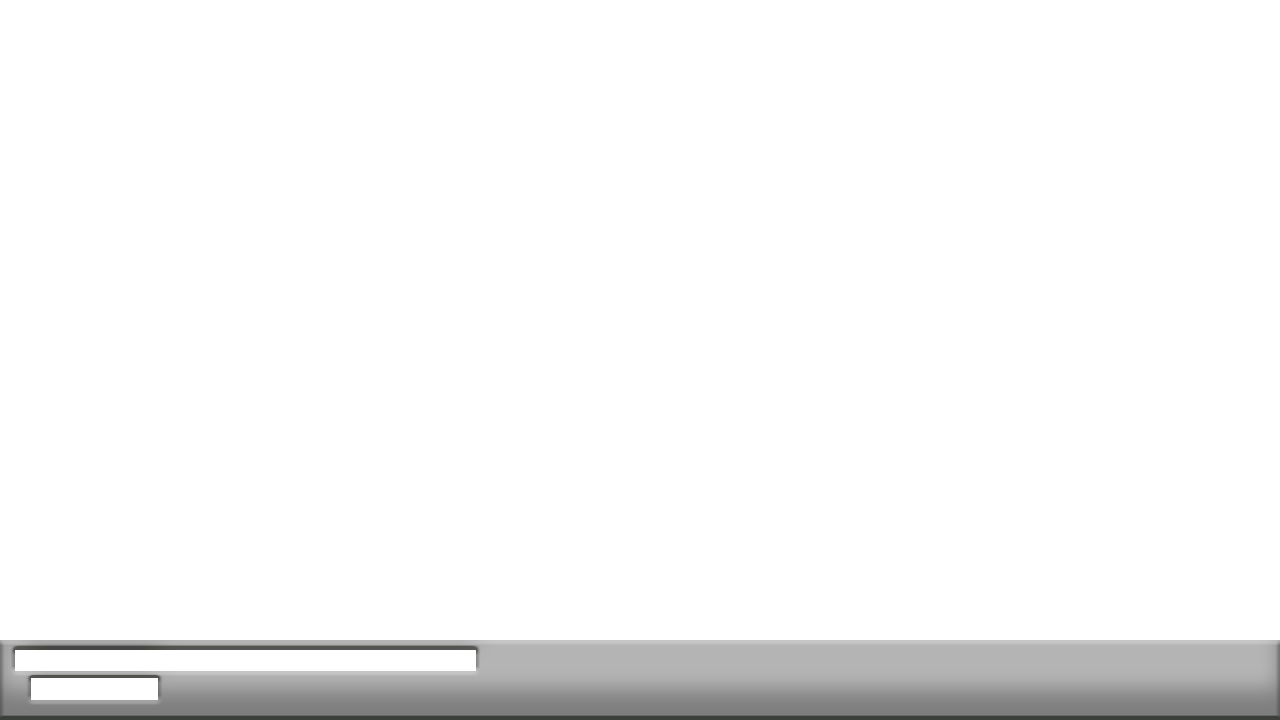
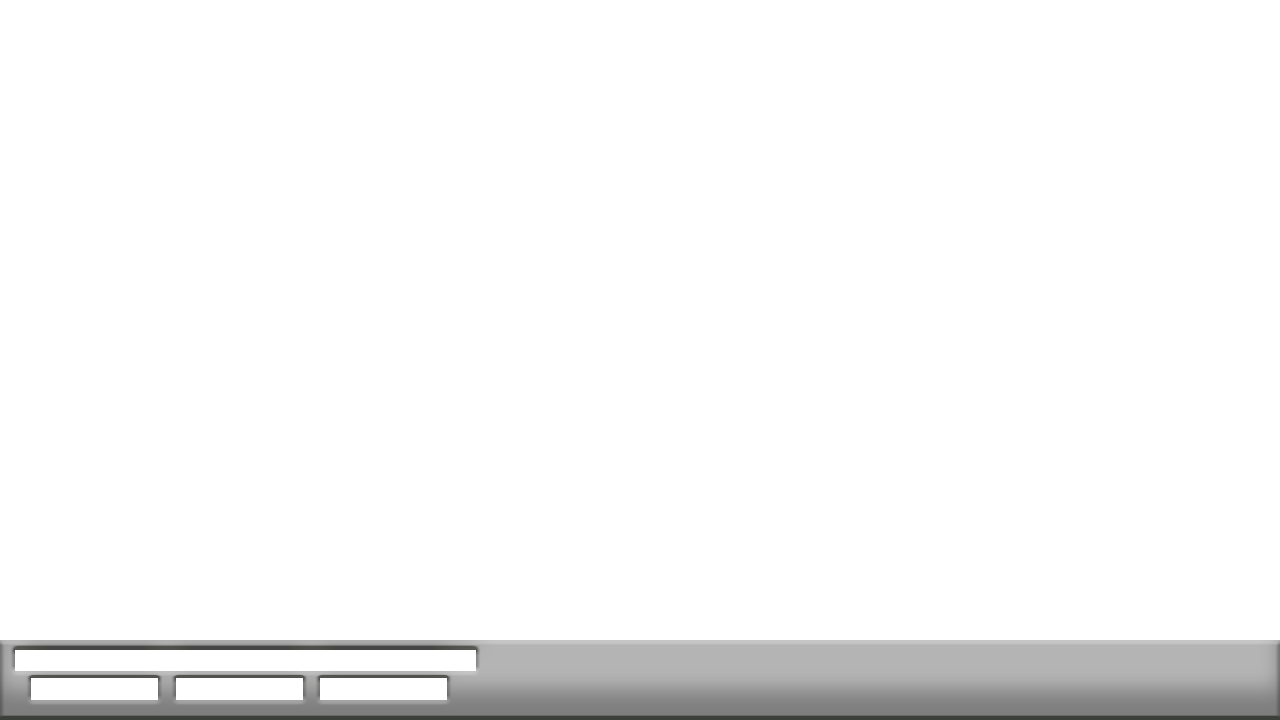
update da interface. avalia e me diz

Changed region(s): [[0.125, 0.9167, 0.375, 0.9778]]

diff --git a/src/game/scenes/Ui.java b/src/game/scenes/Ui.java
@@ -41,11 +41,10 @@ public class Ui {
 
 	public Ui(game.TrueHero hero) {
 		this.hero = hero;
-		
+
 		dial = Utils.getInstance().loadImage("images/bgDial.png");
 		heatingScale = Utils.getInstance().loadImage("images/heatingScale.png");
 		baseUI = Utils.getInstance().loadImage("images/baseUI.png");
-
 
 		centerDialVelX = Utils.getInstance().getWidth() / 2 - 50;
 		centerDialVelY = Utils.getInstance().getHeight() - heightBar + 40;
@@ -60,27 +59,18 @@ public class Ui {
 
 		textInfoPosX = Utils.getInstance().getWidth() - 80;
 		textInfoPosY = (Utils.getInstance().getHeight() - heightBar) + 15;
-		
-		
 
 	}
 
 	public void draw(Graphics2D g) {
-		g.setColor(Color.white);
-		g.drawRect(0, Utils.getInstance().getHeight() - heightBar, Utils.getInstance().getWidth(), heightBar);
-		g.drawImage(baseUI,
-				0,
-				0,
-				baseUI.getWidth(null),
-				baseUI.getHeight(null),
-				0,
-				0,
-				baseUI.getWidth(null),
-				baseUI.getHeight(null),
-				null);
 
-		
-		
+		g.setColor(Color.white);
+
+		drawHeatingBar(g);
+
+		g.drawRect(0, Utils.getInstance().getHeight() - heightBar, Utils.getInstance().getWidth(), heightBar);
+		g.drawImage(baseUI, 0, 0, baseUI.getWidth(null), baseUI.getHeight(null), 0, 0, baseUI.getWidth(null),
+				baseUI.getHeight(null), null);
 
 		// drawDial
 		g.drawImage(dial, centerDialVelX - lineSize, centerDialVelY - lineSize,
@@ -90,16 +80,10 @@ public class Ui {
 		g.drawImage(dial, centerDialAceX - lineSize, centerDialAceY - lineSize,
 				centerDialAceX - lineSize + dial.getWidth(null), centerDialAceY - lineSize + dial.getHeight(null), 0, 0,
 				dial.getWidth(null), dial.getHeight(null), null);
-		
-
-
-
-		
 
 		// desenha as coisas da interface
 		drawSpeedDial(g);
 		drawAceDial(g);
-		drawHeatingBar(g);
 		drawTextInfo(g);
 
 		// g.setColor(Color.pink);
@@ -113,17 +97,10 @@ public class Ui {
 		g.setColor(Color.red);
 		g.drawLine(centerDialVelX, centerDialVelY, centerDialVelX + (int) (lineSize * hero.getVelX() / module),
 				centerDialVelY + (int) (lineSize * hero.getVelY() / module));
-		
-		
-		g.fillArc(centerDialVelX- lineSize,
-				centerDialVelY- lineSize, 
-				lineSize*2, 
-				lineSize*2, 
-				(int)Math.toDegrees(Math.acos(lineSize *hero.getVelX()/module)) - 5, 
-				(int)Math.toDegrees(Math.asin(lineSize *hero.getVelY()/module)) + 5
-				);
-		
 
+		g.fillArc(centerDialVelX - lineSize, centerDialVelY - lineSize, lineSize * 2, lineSize * 2,
+				(int) Math.toDegrees(Math.acos(lineSize * hero.getVelX() / module)) - 5,
+				(int) Math.toDegrees(Math.asin(lineSize * hero.getVelY() / module)) + 5);
 
 	}
 
@@ -146,17 +123,11 @@ public class Ui {
 		int imageSizeY = (int) (heatingScale.getHeight(null) / 5f);
 
 		// desenha a barra
-		g.drawImage(heatingScale, heatingBarPosX, heatingBarPosY, heatingBarPosX + imageSizeX, heatingBarPosY + imageSizeY, 0,
-				0, heatingScale.getWidth(null), heatingScale.getHeight(null), null);
+		g.drawImage(heatingScale, heatingBarPosX, heatingBarPosY, heatingBarPosX + imageSizeX,
+				heatingBarPosY + imageSizeY, 0, 0, heatingScale.getWidth(null), heatingScale.getHeight(null), null);
 
 		// desenha o bloqueio
 		g.setColor(Color.BLACK);
-		// g.fillRect(heatingBarPosX + (int) (imageSizeX * (currentHeating /
-		// maxHeating)),
-		// heatingBarPosY,
-		// (int) (imageSizeX * (1f - (currentHeating / maxHeating))),
-		// imageSizeY);
-		//
 		g.fillRect(heatingBarPosX + (int) (imageSizeX * (currentHeating / maxHeating)), heatingBarPosY,
 				(int) (imageSizeX - (int) (imageSizeX * (currentHeating / maxHeating))), imageSizeY);
 
@@ -164,28 +135,30 @@ public class Ui {
 		g.setColor(Color.WHITE);
 		g.drawRect(heatingBarPosX, heatingBarPosY, imageSizeX, imageSizeY);
 
-		// alerta
-		if (currentHeating > 0.85 * maxHeating) {
+		// alertas
+		if (hero.isWarningOverheating() || currentHeating > 0.85 * maxHeating) {
 			g.setColor(Color.RED);
-			g.fillOval(heatingBarPosX + imageSizeX + 10, heatingBarPosY + 10, 10, 10);
-			g.setColor(Color.WHITE);
-			g.drawString("Overheating!", heatingBarPosX + imageSizeX + 20, heatingBarPosY + 15);
+			g.fillRect(319, 679, 449 - 316, 701 - 676);
 
+			g.setColor(Color.WHITE);
+			g.drawString("Overheating!", 319 + 20, 679 + 15);
 		}
 
-		if (oldCurrentHeating > currentHeating) {
+		if (hero.isCooling() && oldCurrentHeating > currentHeating) {
 			g.setColor(Color.BLUE);
-			g.fillOval(heatingBarPosX + imageSizeX + 10, heatingBarPosY + 30, 10, 10);
+			g.fillOval(heatingBarPosX + 180, heatingBarPosY + imageSizeY + 20, 10, 10);
+			g.fillRect(170, 675, 135, 30);
+
 			g.setColor(Color.WHITE);
-			g.drawString("Cooling!", heatingBarPosX + imageSizeX + 20, heatingBarPosY + 35);
+			g.drawString("Cooling!", heatingBarPosX + 180, heatingBarPosY + imageSizeY + 23);
 		}
 
 		// text info
 		g.setColor(Color.white);
 
 		DecimalFormat df = new DecimalFormat("#.##");
-		g.drawString("Heating level:" + df.format((double) hero.getHeating()) + "%", heatingBarPosX + 20,
-				heatingBarPosY + imageSizeY + 15);
+		g.drawString("Heating level:" + df.format((double) hero.getHeating()) + "%", heatingBarPosX + 25,
+				heatingBarPosY + imageSizeY + 23);
 
 		oldCurrentHeating = currentHeating;
 
@@ -198,6 +171,5 @@ public class Ui {
 		g.drawString("Score:" + game.GameManager.getInstance().getScore(), textInfoPosX, textInfoPosY + 1 * lineSize);
 
 	}
-
 
 }

diff --git a/src/game/TrueHero.java b/src/game/TrueHero.java
@@ -125,6 +125,7 @@ public class TrueHero extends AnimatedObject implements Controllable, Updatable,
 		if (wPressed) {
 			this.forward();
 			this.heatingUp();
+			this.cooling=false;
 		}
 
 		if (aPressed || dPressed) {
@@ -151,8 +152,8 @@ public class TrueHero extends AnimatedObject implements Controllable, Updatable,
 	}
 	
 	public void heatingUp(){
-		this.heating += heatingUpRate;
 		cooling = false;
+		this.heating += heatingUpRate;
 		if (this.heating >= this.maxHeating){
 			warningOverheating = true;
 		}
@@ -163,13 +164,14 @@ public class TrueHero extends AnimatedObject implements Controllable, Updatable,
 		}
 	}
 	public void heatingDown(){
-		cooling = true;
+		warningOverheating = false;
 		this.heating -= heatingDownRate;
 		if (this.heating <= 0.0f){
 			this.heating = 0;
 			cooling = false;
-
+			return;
 		}
+		cooling = true;
 	}
 
 	private void floatToInts() {
@@ -465,6 +467,23 @@ public class TrueHero extends AnimatedObject implements Controllable, Updatable,
 	public void setHeating(float heating) {
 		this.heating = heating;
 	}
+
+	public boolean isWarningOverheating() {
+		return warningOverheating;
+	}
+
+	public void setWarningOverheating(boolean warningOverheating) {
+		this.warningOverheating = warningOverheating;
+	}
+
+	public boolean isCooling() {
+		return cooling;
+	}
+
+	public void setCooling(boolean cooling) {
+		this.cooling = cooling;
+	}
+	
 		
 	
 

diff --git a/src/game/scenes/Loading.java b/src/game/scenes/Loading.java
@@ -12,7 +12,7 @@ import game.Missile;
 public class Loading extends Scene{
 	
 	int count = 0;
-	int contMax = 100;
+	int contMax = 10;
 	Missile m;
 	public Loading() {
 		//getObjsInScene().add(new AnimatedObject("loadingScene.png", 0, 0, 1, 1));	

diff --git a/src/game/JetpackGame.java b/src/game/JetpackGame.java
@@ -143,6 +143,7 @@ public class JetpackGame extends Game {
 		@Override
 		public void mousePressed(MouseEvent e) {
 			currentScene.click(e.getX(), e.getY());
+			System.out.println("X: " + e.getX() + " Y: " +  e.getY());
 		}
 
 		@Override
